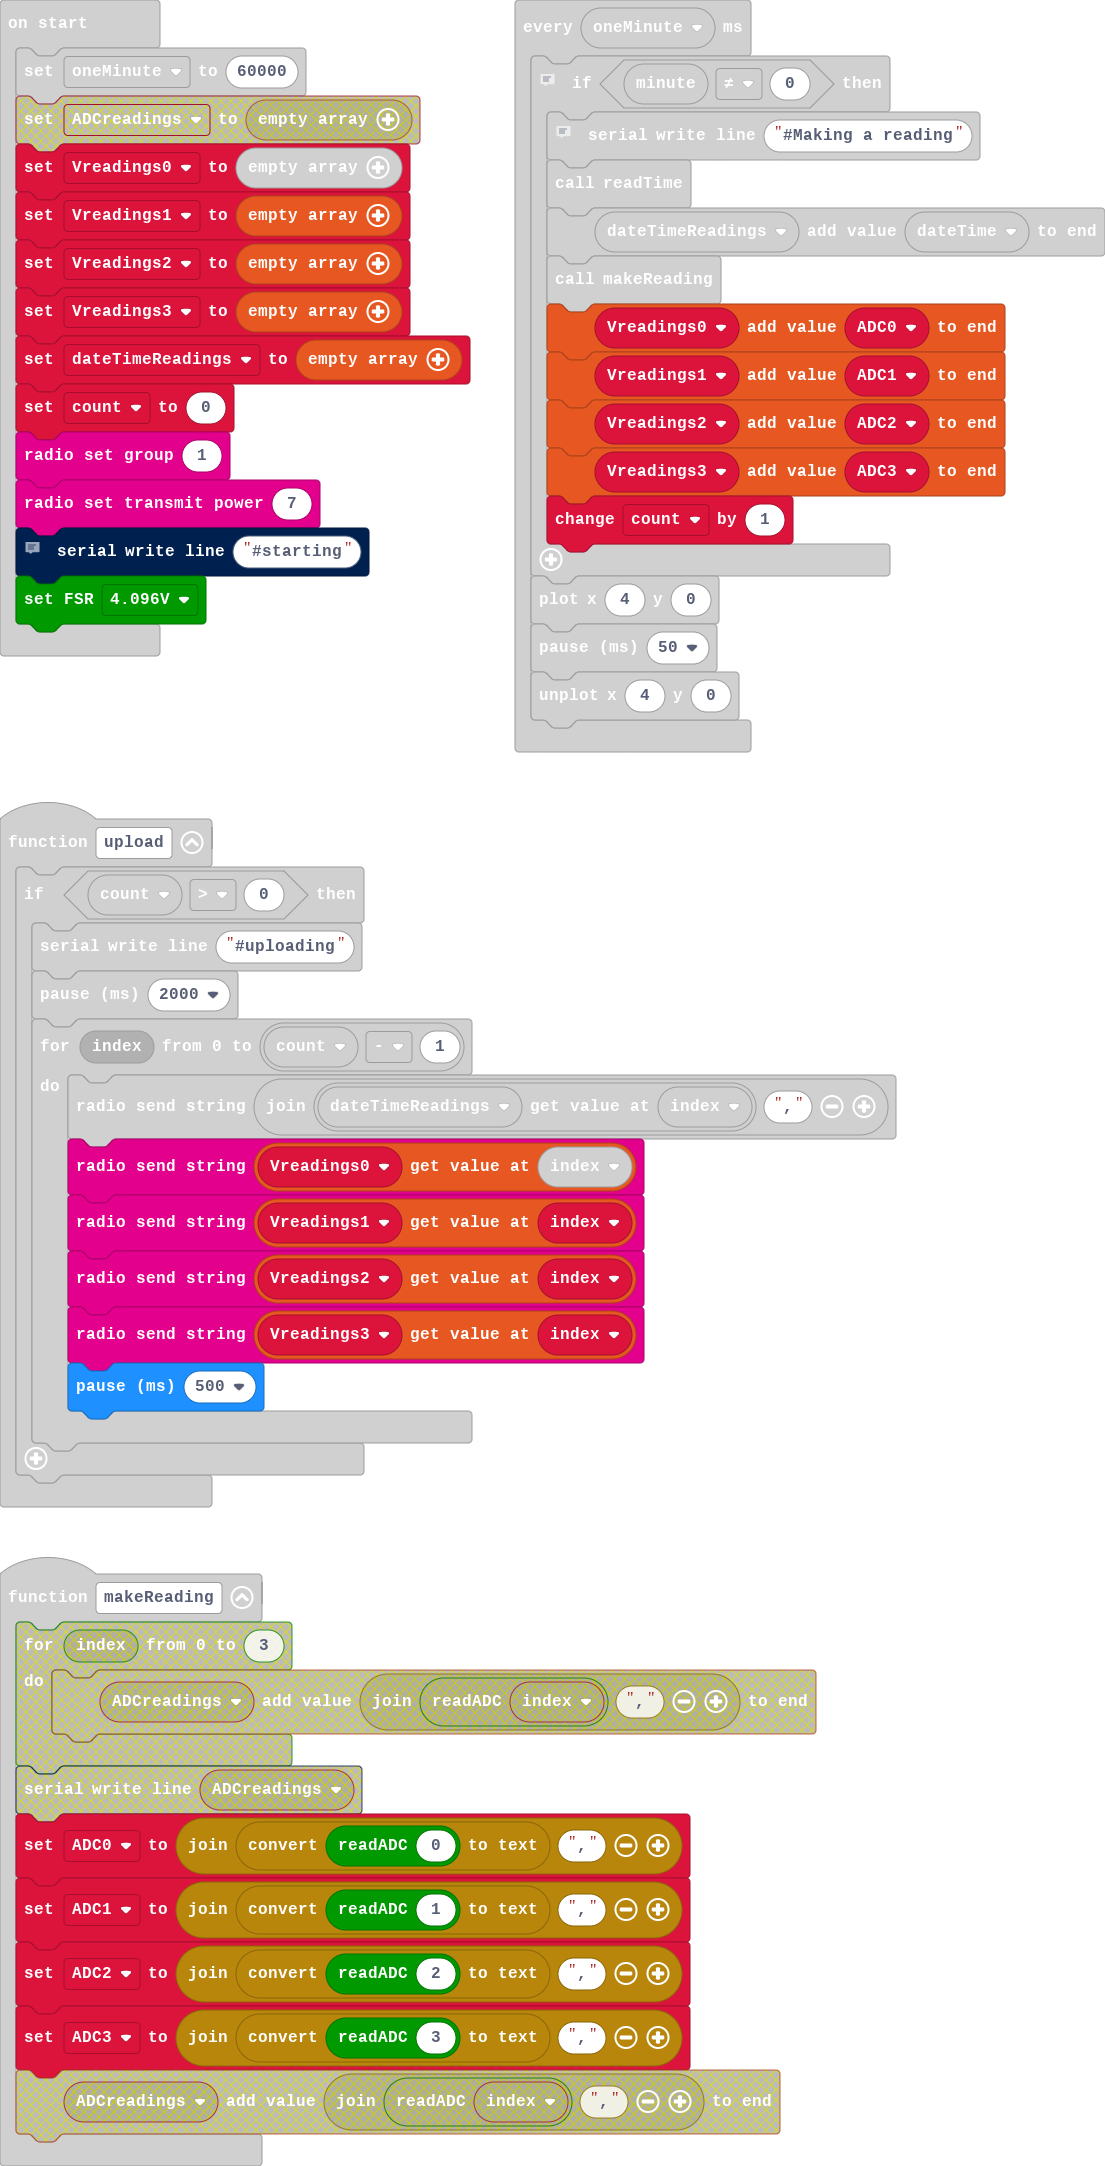
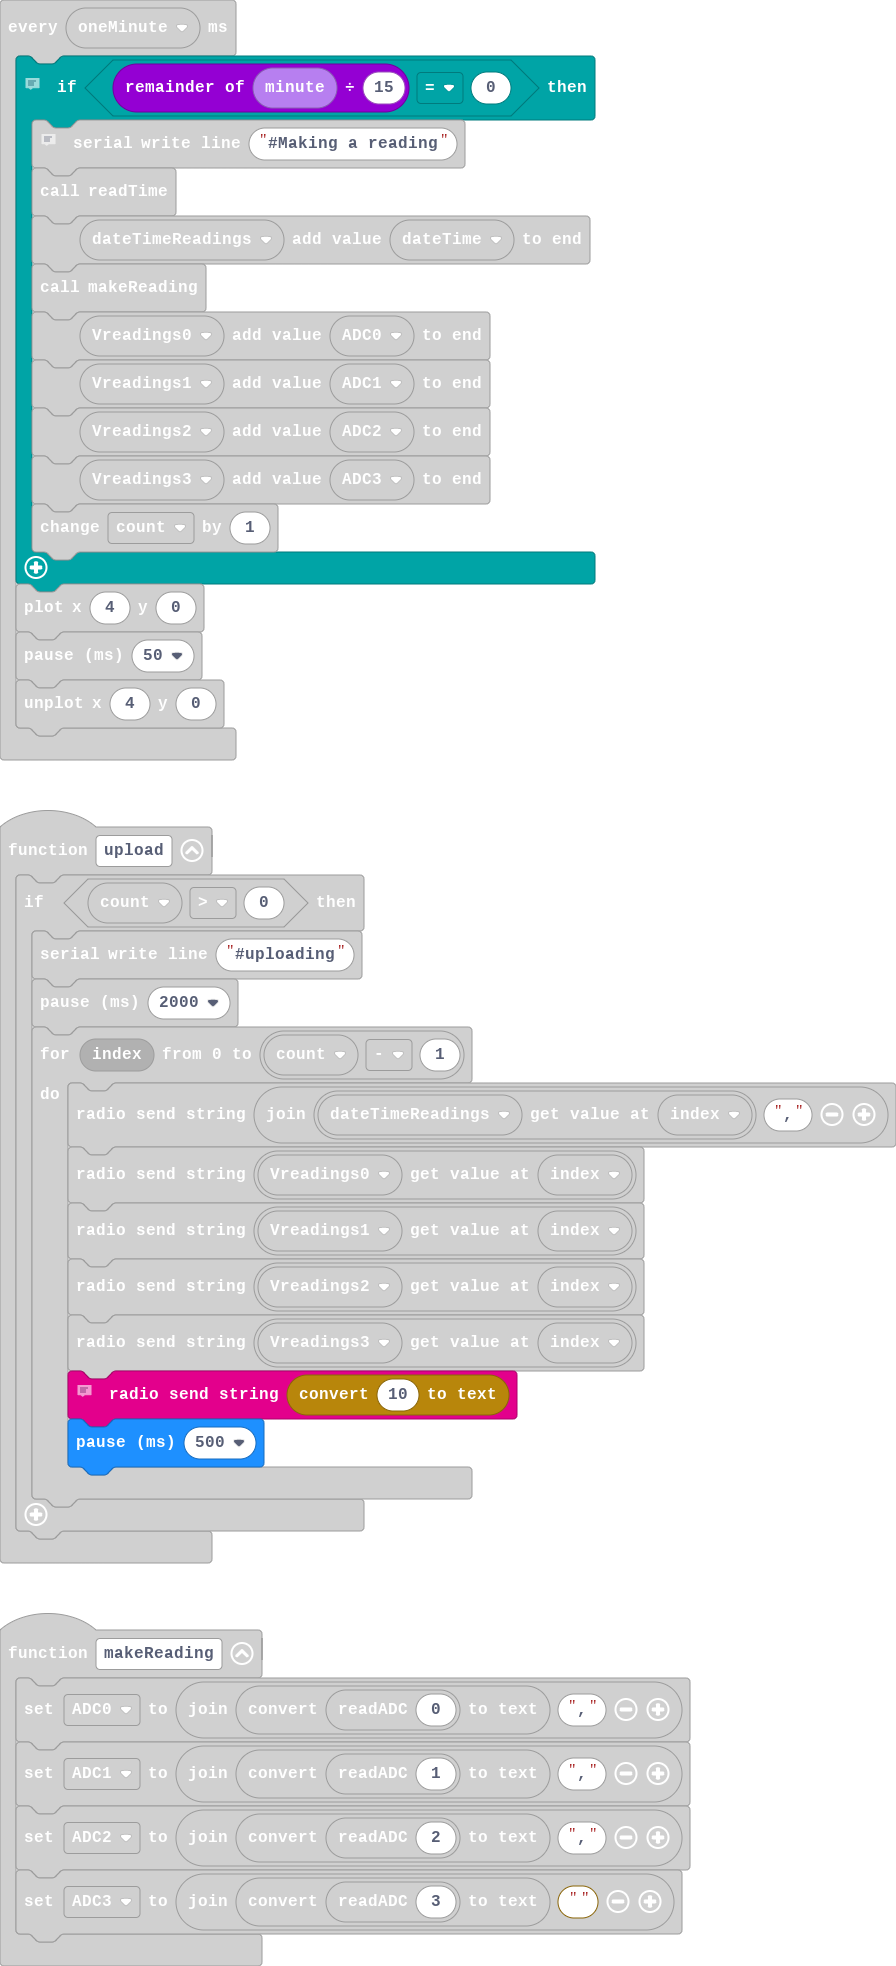
sample every 15 minutes

diff --git a/main.ts b/main.ts
@@ -7,7 +7,7 @@ function makeReading () {
     ADC0 = "" + convertToText(ADS1115.readADC(0)) + ","
     ADC1 = "" + convertToText(ADS1115.readADC(1)) + ","
     ADC2 = "" + convertToText(ADS1115.readADC(2)) + ","
-    ADC3 = "" + convertToText(ADS1115.readADC(3)) + ","
+    ADC3 = "" + convertToText(ADS1115.readADC(3)) + ""
 }
 function resetReadings () {
     Vreadings = []
@@ -48,6 +48,8 @@ function upload () {
             radio.sendString("" + (Vreadings1[index]))
             radio.sendString("" + (Vreadings2[index]))
             radio.sendString("" + (Vreadings3[index]))
+            // New line
+            radio.sendString(convertToText(10))
             basic.pause(500)
         }
     }
@@ -129,8 +131,8 @@ radio.setTransmitPower(7)
 serial.writeLine("#starting")
 ADS1115.setFSR(FSR.V4)
 loops.everyInterval(oneMinute, function () {
-    // Take readings once per hour
-    if (DS3231.minute() != 0) {
+    // Take readings every 15 minutes
+    if (DS3231.minute() % 15 == 0) {
         // Debug - make a reading
         serial.writeLine("#Making a reading")
         readTime()
